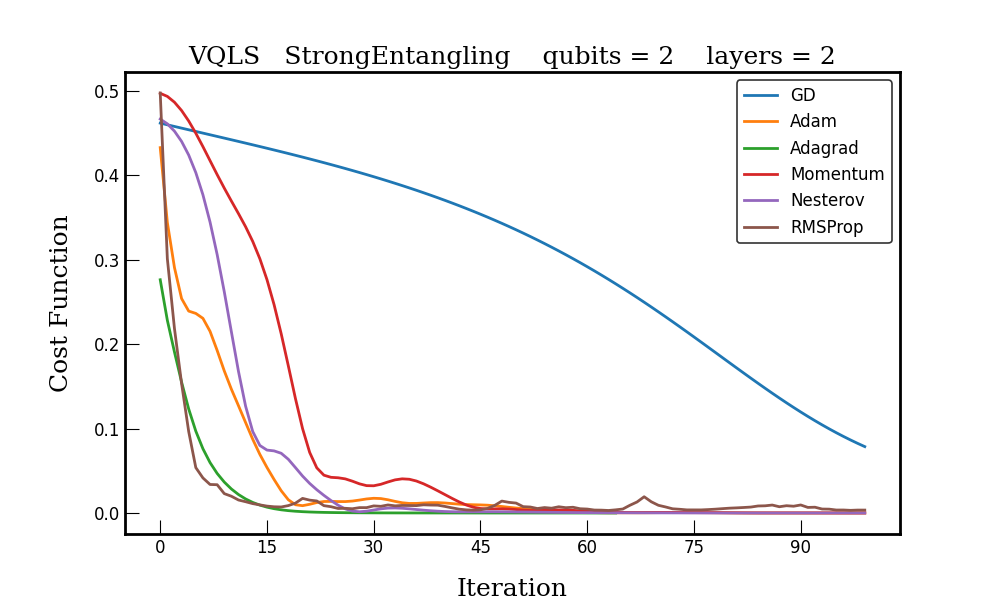
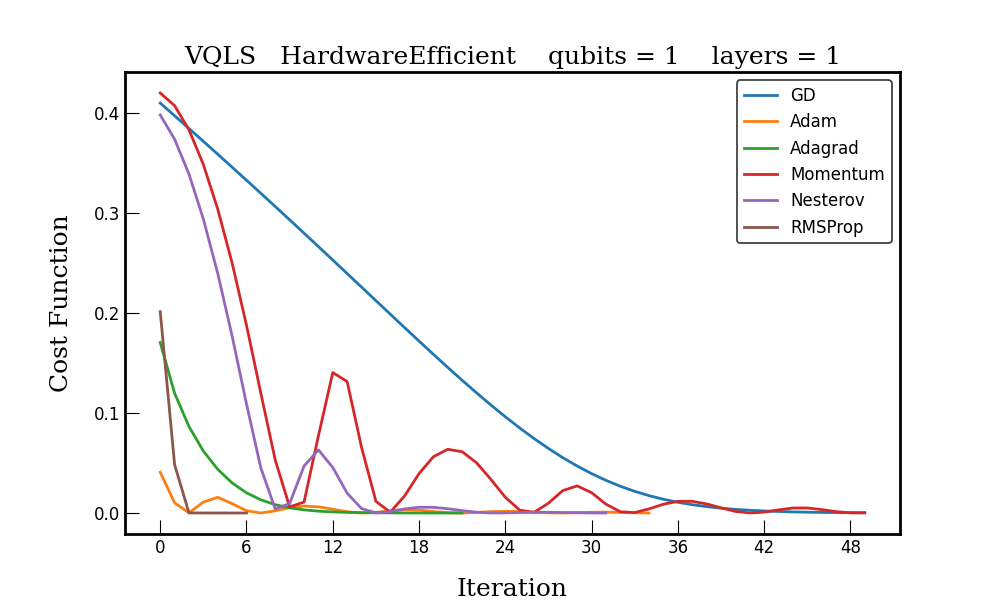
added hardware efficient ansatz, solution of vqls is now real valued

diff --git a/examples/example_vqls_optimizers.py b/examples/example_vqls_optimizers.py
@@ -1,19 +1,21 @@
-from src.utils.ansatz import *
-from src.utils.embedding import *
-from src.optimizers.optim_qml import *
+from src.utils.ansatz import BasicEntangling, StrongEntangling, RotY, HardwareEfficient
+from src.utils.embedding import AmplitudeEmbedding, MottonenStatePrep
+from src.optimizers.optim_qml import (GradientDescentQML, AdamQML, AdagradQML, MomentumQML, NesterovMomentumQML,
+                                      RMSPropQML)
 from src.utils.backend import DefaultQubit, LightningQubit
 from src.utils.utils import get_random_ls
 from src.solver.quantum.vqls.vqls import VQLS
 from src.utils.plotting import plot_costs
+import numpy as np
 
 # reproducibility
 np.random.seed(42)
 
 # number of qubits & layers
-nqubits = 2
-nlayers = 2
+nqubits = 1
+nlayers = 1
 
-maxiter = 100
+maxiter = 50
 
 # init
 solver = VQLS()
@@ -30,10 +32,9 @@ optims = [GradientDescentQML(),
           NesterovMomentumQML(),
           RMSPropQML()]
 
-ansatz_ = StrongEntangling(nqubits=nqubits, nlayers=nlayers)
-
+# ansatz_ = StrongEntangling(nqubits=nqubits, nlayers=nlayers)
+ansatz_ = HardwareEfficient(nqubits=nqubits, nlayers=nlayers)
 prep_ = MottonenStatePrep(wires=range(nqubits))
-
 backend_ = DefaultQubit(wires=nqubits + 1)
 
 cost_hists = {}
@@ -41,20 +42,17 @@ wopts = {}
 
 for optim in optims:
 
-    wopt, cost_hist = solver.opt(optimizer=optim,
-                                 ansatz=ansatz_,
-                                 stateprep=prep_,
-                                 backend=backend_,
-                                 epochs=maxiter,
-                                 tol=1e-6)
+    # setup
+    solver.setup(optimizer=optim, ansatz=ansatz_, stateprep=prep_, backend=backend_, epochs=maxiter, tol=1e-5)
 
-    cost_hists[optim.name] = cost_hist
+    # solve linear system
+    xopt = solver.solve()
 
-    wopts[optim.name] = wopt
+    # save loss data
+    cost_hists[optim.name] = solver.loss
+
+    # print solution
+    print("xopt :", xopt)
 
 title = "VQLS   {:s}    qubits = {:d}    layers = {:d}".format(ansatz_.__class__.__name__, nqubits, nlayers)
 plot_costs(data=cost_hists, save_png=True, title=title, fname="vqls_optimizer_comparison")
-
-device_probs = LightningQubit(wires=nqubits, shots=10000)
-
-solver.plot_probs(device_probs, wopts)

diff --git a/src/utils/ansatz.py b/src/utils/ansatz.py
@@ -27,13 +27,23 @@ class HardwareEfficient(Ansatz):
         super().__init__(nqubits, nlayers)
 
     def vqc(self, weights):
-        raise NotImplementedError("Not implemented yet.")
+
+        for i in range(self.nqubits):
+            qml.RY(weights[i, 0], wires=i)
+
+        for l in range(self.nlayers):
+            for j in range(self.nqubits-1):
+                qml.CZ(wires=[l, j+1])
+            for k in range(self.nqubits):
+                qml.RY(weights[k, 1+l], wires=k)
 
     def init_weights(self):
-        raise NotImplementedError("Not implemented yet.")
+        self.nweights = self.nqubits * (1 + self.nlayers)
+        w = np.random.randn(self.nweights, requires_grad=True)
+        return np.reshape(w, (self.nqubits, 1 + self.nlayers))
 
     def prep_weights(self, w):
-        pass
+        return np.reshape(w, (self.nqubits, 1 + self.nlayers))
 
 
 class StrongEntangling(Ansatz):
